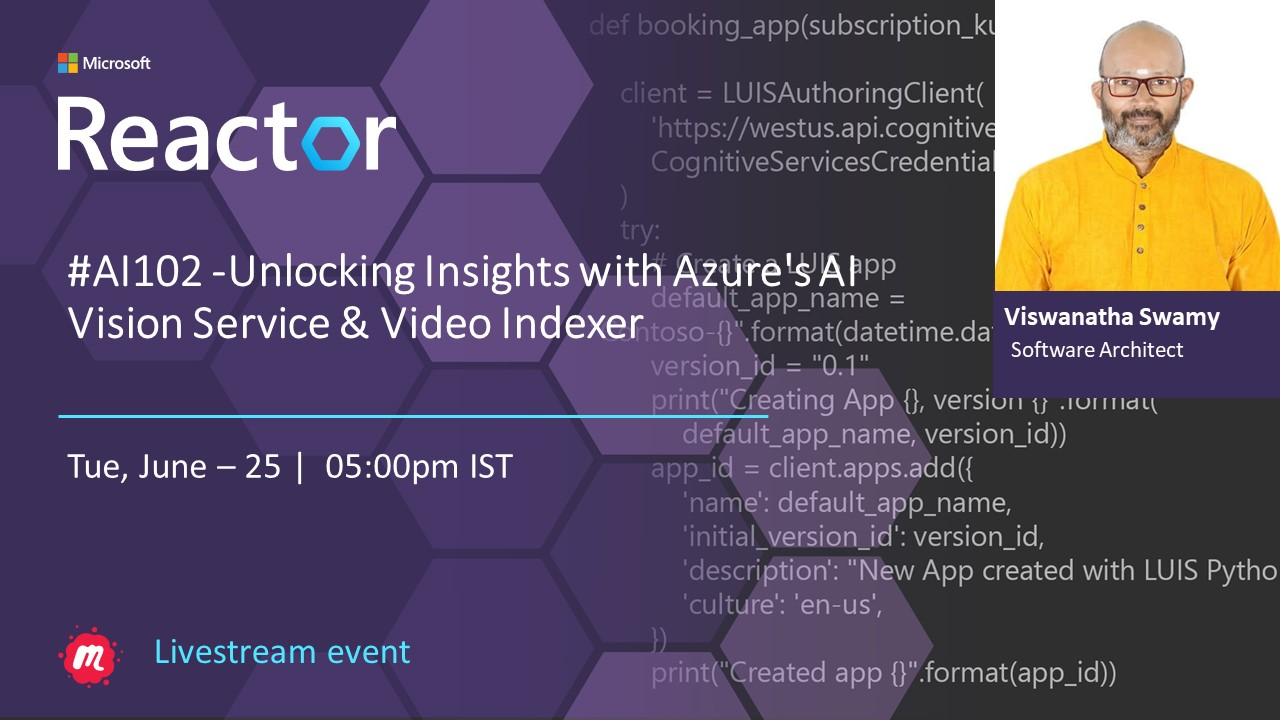
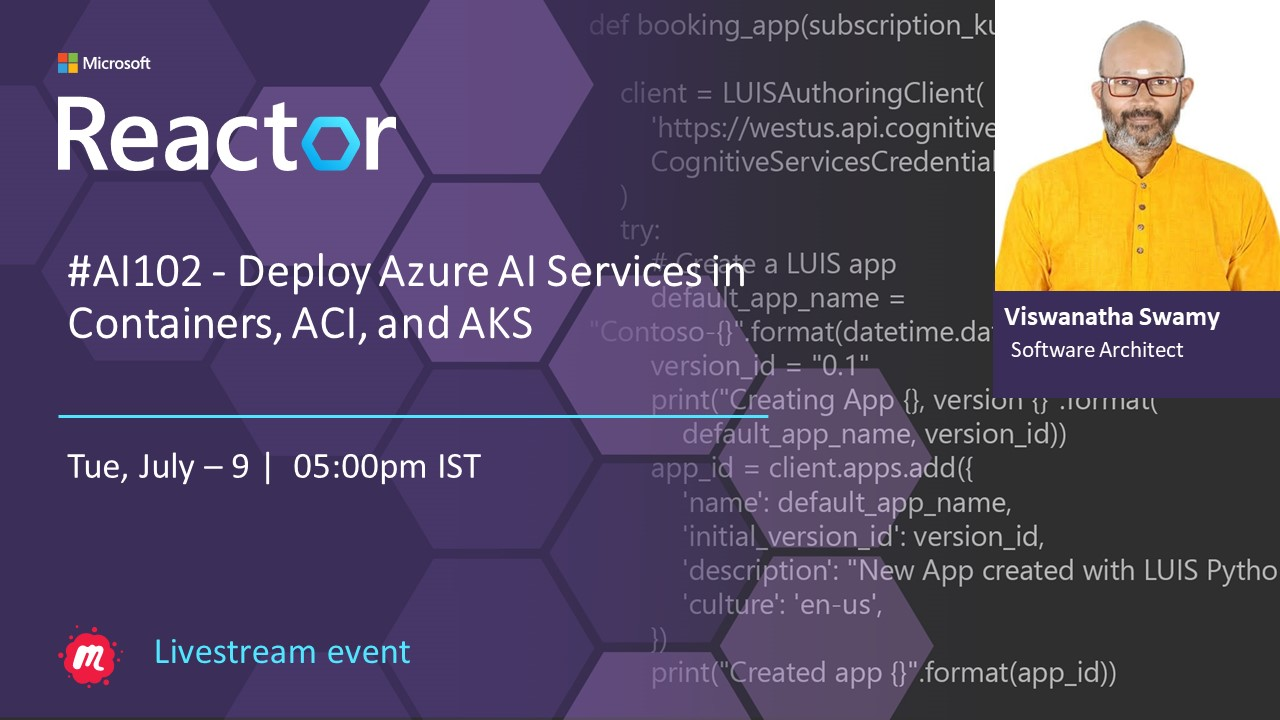
Changes

Changed region(s): [[0.0312, 0.3361, 0.6875, 0.4889], [0.125, 0.6111, 0.4062, 0.6722]]

diff --git a/0709_MSFT_Reactor_AI102_S9/README.md b/0709_MSFT_Reactor_AI102_S9/README.md
@@ -1,10 +1,10 @@
-# AI 102 - Unlocking Insights with Azure's AI Vision Service & Video Indexer
+# AI 102 - Deploy Azure AI Services in Containers, ACI, and AKS
 
-## Date Time: 25-Jun-2024 at 05:00 PM IST
+## Date Time: 09-Jul-2024 at 05:00 PM IST
 
-## Event URL: [https://www.meetup.com/microsoft-reactor-bengaluru/events/301170970](https://www.meetup.com/microsoft-reactor-bengaluru/events/301170970)
+## Event URL: [https://www.meetup.com/microsoft-reactor-bengaluru/events/301436944](https://www.meetup.com/microsoft-reactor-bengaluru/events/301436944)
 
-## YouTube URL: [https://www.youtube.com/watch?v=VORLSfx1lsM](https://www.youtube.com/watch?v=VORLSfx1lsM)
+## YouTube URL: [https://www.youtube.com/watch?v=ToBeDone](https://www.youtube.com/watch?v=ToBeDone)
 
 ## MS Learn Module(s)
 
